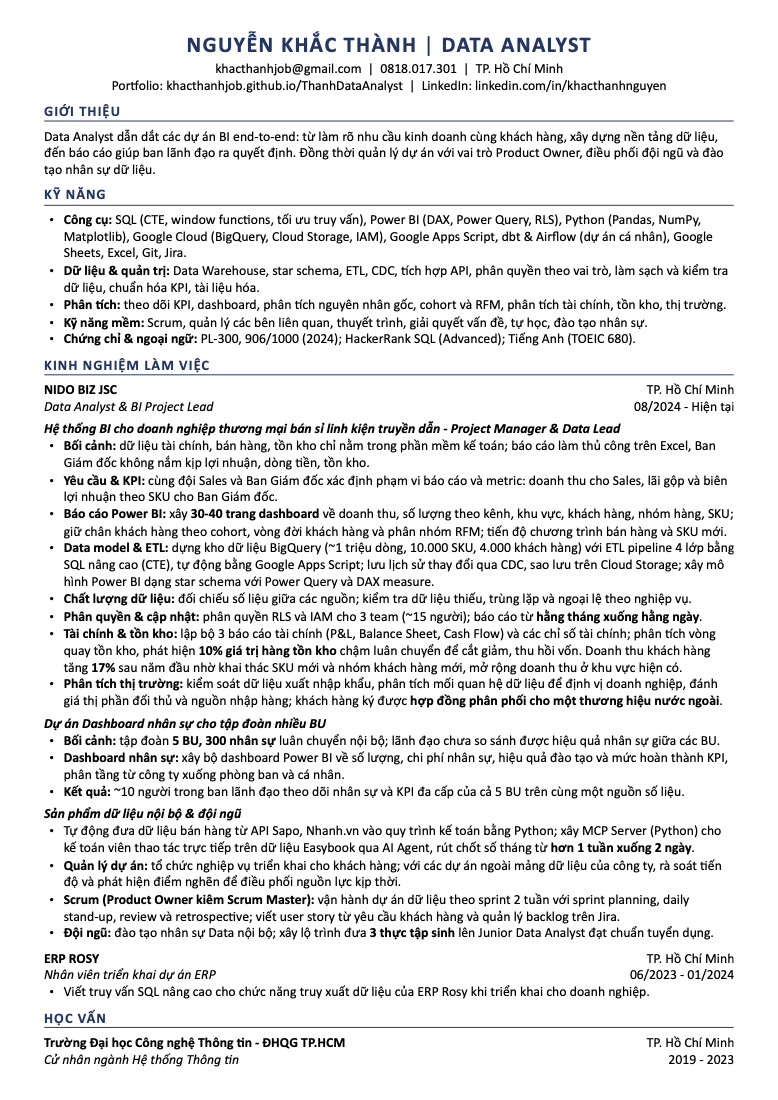
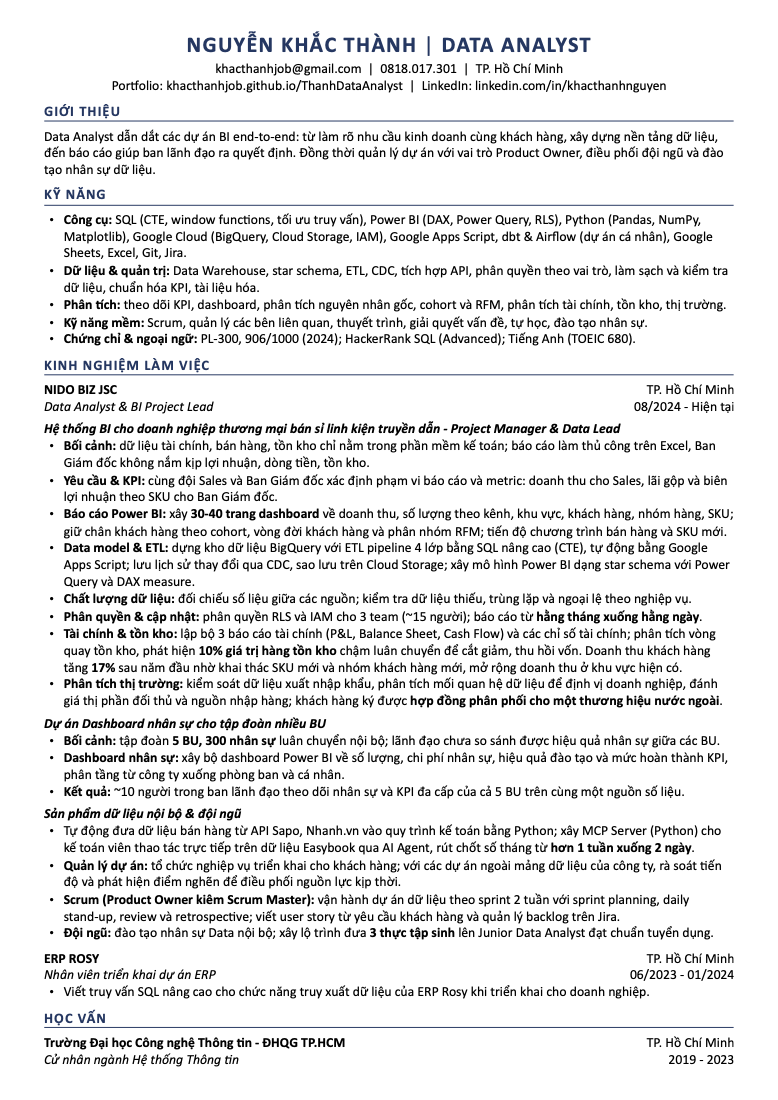
Remove BI warehouse data-scale figures from site and CVs
Drop the row/SKU/customer scale figures from the BI system project text,
replace both CV PDFs and the preview image, bump resume assets to ?v=9.

Changed region(s): [[0.0925, 0.4945, 0.9563, 0.5564]]

diff --git a/products.html b/products.html
@@ -1,1 +1,1 @@
-<!doctype html><html lang="vi"><head><meta charset="utf-8"><meta name="viewport" content="width=device-width,initial-scale=1"><meta name="description" content="Các sản phẩm và dự án tiêu biểu."><title>Sản phẩm — Khắc Thành</title><link rel="icon" href="favicon.ico?v=5" sizes="any"><link rel="icon" type="image/svg+xml" href="assets/favicon.svg?v=5"><link rel="icon" type="image/png" sizes="32x32" href="assets/favicon-32.png?v=5"><link rel="apple-touch-icon" href="assets/apple-touch-icon.png?v=5"><link rel="stylesheet" href="styles.css?v=32"></head><body data-page="products"><header class="site-header"><a class="brand" href="index.html" aria-label="Khắc Thành - Trang chủ">Khắc Thành<span class="brand-mark" aria-hidden="true">.</span></a><button class="menu-toggle" type="button" aria-label="Mở menu" aria-expanded="false" aria-controls="site-nav"><span class="menu-toggle-label">Menu</span><span class="menu-icon" aria-hidden="true"><i></i><i></i></span></button><nav class="nav" id="site-nav" aria-label="Điều hướng chính"><a href="index.html">Tổng quan</a><a class="active" href="products.html">Sản phẩm</a><a href="resume.html">Résumé</a><a href="contact.html">Liên hệ</a><div class="menu-details"><div class="menu-quick-links"><a href="mailto:khacthanhjob@gmail.com">Gửi email <span aria-hidden="true">●</span></a><a href="tel:+84818017301">Gọi điện <span aria-hidden="true">●</span></a></div><a class="menu-contact-tile" href="contact.html"><span>Liên hệ ↗</span><span class="menu-chain" aria-hidden="true"><i></i><i></i></span></a><div class="menu-meta"><span>Ho Chi Minh City</span><span>0818.017.301</span></div></div></nav></header><main class="container page-main"><section class="page-hero"><span class="kicker">01 / Sản phẩm</span><h1>Công việc<span class="accent">.</span><br><em>và kết quả.</em></h1><p>Một số dự án dữ liệu tôi đã triển khai tại Nido Biz JSC, từ yêu cầu nghiệp vụ đến hệ thống báo cáo vận hành hằng ngày.</p></section><section class="project-list"><article id="project-1" class="project-detail"><div class="project-visual visual-one"><span>01</span><strong>BI<br>SYSTEM.</strong><i>↗</i></div><div class="detail-copy"><div><span class="kicker">Khách hàng thương mại · Project Manager &amp; Data Lead</span><h2>Hệ thống BI cho khách hàng thương mại</h2><p>Dữ liệu tài chính, bán hàng và tồn kho của khách hàng chỉ nằm trong phần mềm kế toán, báo cáo làm thủ công trên Excel. Tôi dựng kho dữ liệu BigQuery (~1 triệu dòng, 10.000 SKU, 4.000 khách hàng) với ETL pipeline 4 lớp viết bằng SQL, sao lưu trên Cloud Storage, mô hình Power BI dạng star schema và 30–40 trang dashboard về doanh thu, lãi gộp, tồn kho, báo cáo tài chính; phân quyền RLS và IAM cho 3 team (~15 người), báo cáo từ hằng tháng xuống hằng ngày. Phân tích vòng quay tồn kho phát hiện 10% giá trị hàng tồn kho chậm luân chuyển để cắt giảm, thu hồi vốn; doanh thu khách hàng tăng 17% sau năm đầu nhờ khai thác SKU mới và nhóm khách hàng mới. Phân tích dữ liệu xuất nhập khẩu giúp khách hàng xác định nguồn nhập hàng và ký được hợp đồng phân phối cho một thương hiệu nước ngoài.</p></div><ul class="tags"><li>Power BI</li><li>BigQuery</li><li>Google Cloud</li><li>SQL</li><li>ETL</li></ul></div></article><article id="project-2" class="project-detail"><div class="project-visual visual-two"><span>02</span><strong>HR<br>DASHBOARD.</strong><i>↗</i></div><div class="detail-copy"><div><span class="kicker">Tập đoàn 5 BU · 300 nhân sự</span><h2>Dashboard nhân sự cho tập đoàn nhiều BU</h2><p>Tập đoàn 5 BU với 300 nhân sự luân chuyển giữa các công ty, ban lãnh đạo chưa có cách so sánh hiệu quả nhân sự. Tôi xây bộ dashboard Power BI về số lượng, chi phí nhân sự, hiệu quả đào tạo và mức hoàn thành KPI, phân tầng từ công ty xuống phòng ban và cá nhân, để ~10 người trong ban lãnh đạo theo dõi cả 5 BU trên cùng một nguồn số liệu.</p></div><ul class="tags"><li>Power BI</li><li>DAX</li><li>KPI</li></ul></div></article><article id="project-3" class="project-detail"><div class="project-visual visual-three"><span>03</span><strong>MCP<br>SERVER.</strong><i>↗</i></div><div class="detail-copy"><div><span class="kicker">Sản phẩm nội bộ · Nido Biz JSC</span><h2>Dữ liệu kế toán qua AI Agent</h2><p>Tự động đưa dữ liệu bán hàng từ API Sapo, Nhanh.vn vào quy trình dịch vụ kế toán bằng Python. Xây MCP Server bằng Python cho phần mềm kế toán Easybook, để kế toán viên truy vấn và thao tác trực tiếp trên dữ liệu kế toán qua AI Agent, rút thời gian chốt số tháng từ hơn 1 tuần xuống 2 ngày làm việc.</p></div><ul class="tags"><li>Python</li><li>API</li><li>MCP</li><li>AI Agent</li></ul></div></article></section><section class="next-section"><span class="kicker">Tiếp theo</span><a href="resume.html">Xem hành trình sự nghiệp <span>↗</span></a></section></main><footer class="footer container"><span>© 2026 KHẮC THÀNH</span><span>Được thiết kế để luôn rõ ràng.</span><a href="contact.html">Liên hệ ↗</a></footer><script src="script.js?v=31"></script></body></html>
+<!doctype html><html lang="vi"><head><meta charset="utf-8"><meta name="viewport" content="width=device-width,initial-scale=1"><meta name="description" content="Các sản phẩm và dự án tiêu biểu."><title>Sản phẩm — Khắc Thành</title><link rel="icon" href="favicon.ico?v=5" sizes="any"><link rel="icon" type="image/svg+xml" href="assets/favicon.svg?v=5"><link rel="icon" type="image/png" sizes="32x32" href="assets/favicon-32.png?v=5"><link rel="apple-touch-icon" href="assets/apple-touch-icon.png?v=5"><link rel="stylesheet" href="styles.css?v=32"></head><body data-page="products"><header class="site-header"><a class="brand" href="index.html" aria-label="Khắc Thành - Trang chủ">Khắc Thành<span class="brand-mark" aria-hidden="true">.</span></a><button class="menu-toggle" type="button" aria-label="Mở menu" aria-expanded="false" aria-controls="site-nav"><span class="menu-toggle-label">Menu</span><span class="menu-icon" aria-hidden="true"><i></i><i></i></span></button><nav class="nav" id="site-nav" aria-label="Điều hướng chính"><a href="index.html">Tổng quan</a><a class="active" href="products.html">Sản phẩm</a><a href="resume.html">Résumé</a><a href="contact.html">Liên hệ</a><div class="menu-details"><div class="menu-quick-links"><a href="mailto:khacthanhjob@gmail.com">Gửi email <span aria-hidden="true">●</span></a><a href="tel:+84818017301">Gọi điện <span aria-hidden="true">●</span></a></div><a class="menu-contact-tile" href="contact.html"><span>Liên hệ ↗</span><span class="menu-chain" aria-hidden="true"><i></i><i></i></span></a><div class="menu-meta"><span>Ho Chi Minh City</span><span>0818.017.301</span></div></div></nav></header><main class="container page-main"><section class="page-hero"><span class="kicker">01 / Sản phẩm</span><h1>Công việc<span class="accent">.</span><br><em>và kết quả.</em></h1><p>Một số dự án dữ liệu tôi đã triển khai tại Nido Biz JSC, từ yêu cầu nghiệp vụ đến hệ thống báo cáo vận hành hằng ngày.</p></section><section class="project-list"><article id="project-1" class="project-detail"><div class="project-visual visual-one"><span>01</span><strong>BI<br>SYSTEM.</strong><i>↗</i></div><div class="detail-copy"><div><span class="kicker">Khách hàng thương mại · Project Manager &amp; Data Lead</span><h2>Hệ thống BI cho khách hàng thương mại</h2><p>Dữ liệu tài chính, bán hàng và tồn kho của khách hàng chỉ nằm trong phần mềm kế toán, báo cáo làm thủ công trên Excel. Tôi dựng kho dữ liệu BigQuery với ETL pipeline 4 lớp viết bằng SQL, sao lưu trên Cloud Storage, mô hình Power BI dạng star schema và 30–40 trang dashboard về doanh thu, lãi gộp, tồn kho, báo cáo tài chính; phân quyền RLS và IAM cho 3 team (~15 người), báo cáo từ hằng tháng xuống hằng ngày. Phân tích vòng quay tồn kho phát hiện 10% giá trị hàng tồn kho chậm luân chuyển để cắt giảm, thu hồi vốn; doanh thu khách hàng tăng 17% sau năm đầu nhờ khai thác SKU mới và nhóm khách hàng mới. Phân tích dữ liệu xuất nhập khẩu giúp khách hàng xác định nguồn nhập hàng và ký được hợp đồng phân phối cho một thương hiệu nước ngoài.</p></div><ul class="tags"><li>Power BI</li><li>BigQuery</li><li>Google Cloud</li><li>SQL</li><li>ETL</li></ul></div></article><article id="project-2" class="project-detail"><div class="project-visual visual-two"><span>02</span><strong>HR<br>DASHBOARD.</strong><i>↗</i></div><div class="detail-copy"><div><span class="kicker">Tập đoàn 5 BU · 300 nhân sự</span><h2>Dashboard nhân sự cho tập đoàn nhiều BU</h2><p>Tập đoàn 5 BU với 300 nhân sự luân chuyển giữa các công ty, ban lãnh đạo chưa có cách so sánh hiệu quả nhân sự. Tôi xây bộ dashboard Power BI về số lượng, chi phí nhân sự, hiệu quả đào tạo và mức hoàn thành KPI, phân tầng từ công ty xuống phòng ban và cá nhân, để ~10 người trong ban lãnh đạo theo dõi cả 5 BU trên cùng một nguồn số liệu.</p></div><ul class="tags"><li>Power BI</li><li>DAX</li><li>KPI</li></ul></div></article><article id="project-3" class="project-detail"><div class="project-visual visual-three"><span>03</span><strong>MCP<br>SERVER.</strong><i>↗</i></div><div class="detail-copy"><div><span class="kicker">Sản phẩm nội bộ · Nido Biz JSC</span><h2>Dữ liệu kế toán qua AI Agent</h2><p>Tự động đưa dữ liệu bán hàng từ API Sapo, Nhanh.vn vào quy trình dịch vụ kế toán bằng Python. Xây MCP Server bằng Python cho phần mềm kế toán Easybook, để kế toán viên truy vấn và thao tác trực tiếp trên dữ liệu kế toán qua AI Agent, rút thời gian chốt số tháng từ hơn 1 tuần xuống 2 ngày làm việc.</p></div><ul class="tags"><li>Python</li><li>API</li><li>MCP</li><li>AI Agent</li></ul></div></article></section><section class="next-section"><span class="kicker">Tiếp theo</span><a href="resume.html">Xem hành trình sự nghiệp <span>↗</span></a></section></main><footer class="footer container"><span>© 2026 KHẮC THÀNH</span><span>Được thiết kế để luôn rõ ràng.</span><a href="contact.html">Liên hệ ↗</a></footer><script src="script.js?v=31"></script></body></html>

diff --git a/resume.html b/resume.html
@@ -1,1 +1,1 @@
-<!doctype html><html lang="vi"><head><meta charset="utf-8"><meta name="viewport" content="width=device-width,initial-scale=1"><meta name="description" content="Résumé một trang: kinh nghiệm, kỹ năng và học vấn."><title>Résumé — Khắc Thành</title><link rel="icon" href="favicon.ico?v=5" sizes="any"><link rel="icon" type="image/svg+xml" href="assets/favicon.svg?v=5"><link rel="icon" type="image/png" sizes="32x32" href="assets/favicon-32.png?v=5"><link rel="apple-touch-icon" href="assets/apple-touch-icon.png?v=5"><link rel="stylesheet" href="styles.css?v=32"></head><body data-page="resume"><header class="site-header"><a class="brand" href="index.html" aria-label="Khắc Thành - Trang chủ">Khắc Thành<span class="brand-mark" aria-hidden="true">.</span></a><button class="menu-toggle" type="button" aria-label="Mở menu" aria-expanded="false" aria-controls="site-nav"><span class="menu-toggle-label">Menu</span><span class="menu-icon" aria-hidden="true"><i></i><i></i></span></button><nav class="nav" id="site-nav" aria-label="Điều hướng chính"><a href="index.html">Tổng quan</a><a href="products.html">Sản phẩm</a><a class="active" href="resume.html">Résumé</a><a href="contact.html">Liên hệ</a><div class="menu-details"><div class="menu-quick-links"><a href="mailto:khacthanhjob@gmail.com">Gửi email <span aria-hidden="true">●</span></a><a href="tel:+84818017301">Gọi điện <span aria-hidden="true">●</span></a></div><a class="menu-contact-tile" href="contact.html"><span>Liên hệ ↗</span><span class="menu-chain" aria-hidden="true"><i></i><i></i></span></a><div class="menu-meta"><span>Ho Chi Minh City</span><span>0818.017.301</span></div></div></nav></header><main class="container resume-pdf-page" id="resume-pdf-page" hidden><div class="resume-pdf-heading"><div><span class="kicker">02 / RÉSUMÉ PDF</span><h1>Résumé của<br>Khắc Thành.</h1><p>Data Analyst · BI — Nido Biz, ERP Rosy, ĐH Công nghệ Thông tin.</p></div><div class="resume-pdf-actions"><a class="pill-link" href="assets/resume/Khac-Thanh-Resume.pdf?v=8" download="CV_NguyenKhacThanh_VN.pdf">Tải PDF (VN) <span>↓</span></a><a class="pill-link" href="assets/resume/Khac-Thanh-Resume-EN.pdf?v=8" download="CV_NguyenKhacThanh_EN.pdf">English PDF <span>↓</span></a></div></div><a class="resume-preview-link" href="assets/resume/Khac-Thanh-Resume.pdf?v=8" aria-label="Mở CV PDF của Khắc Thành"><img class="resume-pdf-frame" src="assets/resume/Khac-Thanh-Resume-preview.png?v=8" alt="Bản xem trước CV một trang của Nguyễn Khắc Thành: Data Analyst tại Nido Biz, dự án hệ thống BI và dashboard nhân sự, kỹ năng Power BI, Google Cloud, SQL, Python."></a></main><main class="container resume-page" id="resume-html-page"><div class="resume-top"><span class="kicker">02 / Một trang về tôi</span><button class="print-button" onclick="window.print()">In / Lưu PDF ↗</button></div><section class="resume-intro"><h1>KHẮC<br><em>THÀNH.</em></h1><div><p class="resume-role">Data Analyst · Power BI, SQL, BigQuery</p><p>Data Analyst dẫn dắt các dự án BI end-to-end: từ làm rõ nhu cầu kinh doanh cùng khách hàng, xây dựng nền tảng dữ liệu, đến báo cáo giúp ban lãnh đạo ra quyết định. Đồng thời quản lý dự án với vai trò Product Owner, điều phối đội ngũ và đào tạo nhân sự dữ liệu. Chứng chỉ Microsoft PL-300 (906/1000).</p><a href="mailto:khacthanhjob@gmail.com">khacthanhjob@gmail.com ↗</a><br><a href="tel:+84818017301">0818.017.301 ↗</a></div></section><div class="resume-grid"><section><h2>Hành trình</h2><div class="resume-item"><span>08/2024 — Hiện tại</span><div><h3>Data Analyst</h3><p>Nido Biz JSC</p><p>Project Manager &amp; Data Lead dự án hệ thống BI cho khách hàng thương mại: doanh thu khách hàng tăng 17% sau năm đầu, cắt giảm 10% giá trị tồn kho chậm luân chuyển để thu hồi vốn, báo cáo từ hằng tháng xuống hằng ngày. Product Owner kiêm Scrum Master các dự án dữ liệu (sprint 2 tuần); đưa 3 thực tập sinh lên Junior Data Analyst.</p></div></div><div class="resume-item"><span>06/2023 — 01/2024</span><div><h3>Nhân viên triển khai dự án ERP</h3><p>ERP Rosy</p><p>Viết truy vấn SQL nâng cao cho chức năng truy xuất dữ liệu của hệ thống ERP Rosy khi triển khai cho doanh nghiệp.</p></div></div></section><aside><section><h2>Chuyên môn</h2><ul class="plain-list"><li>Power BI: DAX, Power Query, RLS, star schema</li><li>SQL nâng cao, ETL, làm sạch dữ liệu</li><li>Google Cloud: BigQuery, Cloud Storage, IAM</li><li>Python: API, MCP Server</li><li>dbt, Airflow (dự án cá nhân)</li><li>Scrum, quản lý các bên liên quan</li></ul></section><section><h2>Chứng chỉ</h2><ul class="plain-list"><li>Microsoft PL-300 (906/1000)</li><li>HackerRank SQL (Advanced)</li><li>TOEIC 680</li></ul></section><section><h2>Học vấn</h2><p>ĐH Công nghệ Thông tin – ĐHQG TP.HCM<br>Hệ thống Thông tin<br>2019 — 2023</p></section><section><h2>Địa điểm</h2><p>Ho Chi Minh City</p></section></aside></div></main><footer class="footer container"><span>© 2026 KHẮC THÀNH</span><span>Résumé một trang.</span><a href="contact.html">Liên hệ ↗</a></footer><script src="script.js?v=31"></script></body></html>
+<!doctype html><html lang="vi"><head><meta charset="utf-8"><meta name="viewport" content="width=device-width,initial-scale=1"><meta name="description" content="Résumé một trang: kinh nghiệm, kỹ năng và học vấn."><title>Résumé — Khắc Thành</title><link rel="icon" href="favicon.ico?v=5" sizes="any"><link rel="icon" type="image/svg+xml" href="assets/favicon.svg?v=5"><link rel="icon" type="image/png" sizes="32x32" href="assets/favicon-32.png?v=5"><link rel="apple-touch-icon" href="assets/apple-touch-icon.png?v=5"><link rel="stylesheet" href="styles.css?v=32"></head><body data-page="resume"><header class="site-header"><a class="brand" href="index.html" aria-label="Khắc Thành - Trang chủ">Khắc Thành<span class="brand-mark" aria-hidden="true">.</span></a><button class="menu-toggle" type="button" aria-label="Mở menu" aria-expanded="false" aria-controls="site-nav"><span class="menu-toggle-label">Menu</span><span class="menu-icon" aria-hidden="true"><i></i><i></i></span></button><nav class="nav" id="site-nav" aria-label="Điều hướng chính"><a href="index.html">Tổng quan</a><a href="products.html">Sản phẩm</a><a class="active" href="resume.html">Résumé</a><a href="contact.html">Liên hệ</a><div class="menu-details"><div class="menu-quick-links"><a href="mailto:khacthanhjob@gmail.com">Gửi email <span aria-hidden="true">●</span></a><a href="tel:+84818017301">Gọi điện <span aria-hidden="true">●</span></a></div><a class="menu-contact-tile" href="contact.html"><span>Liên hệ ↗</span><span class="menu-chain" aria-hidden="true"><i></i><i></i></span></a><div class="menu-meta"><span>Ho Chi Minh City</span><span>0818.017.301</span></div></div></nav></header><main class="container resume-pdf-page" id="resume-pdf-page" hidden><div class="resume-pdf-heading"><div><span class="kicker">02 / RÉSUMÉ PDF</span><h1>Résumé của<br>Khắc Thành.</h1><p>Data Analyst · BI — Nido Biz, ERP Rosy, ĐH Công nghệ Thông tin.</p></div><div class="resume-pdf-actions"><a class="pill-link" href="assets/resume/Khac-Thanh-Resume.pdf?v=9" download="CV_NguyenKhacThanh_VN.pdf">Tải PDF (VN) <span>↓</span></a><a class="pill-link" href="assets/resume/Khac-Thanh-Resume-EN.pdf?v=9" download="CV_NguyenKhacThanh_EN.pdf">English PDF <span>↓</span></a></div></div><a class="resume-preview-link" href="assets/resume/Khac-Thanh-Resume.pdf?v=9" aria-label="Mở CV PDF của Khắc Thành"><img class="resume-pdf-frame" src="assets/resume/Khac-Thanh-Resume-preview.png?v=9" alt="Bản xem trước CV một trang của Nguyễn Khắc Thành: Data Analyst tại Nido Biz, dự án hệ thống BI và dashboard nhân sự, kỹ năng Power BI, Google Cloud, SQL, Python."></a></main><main class="container resume-page" id="resume-html-page"><div class="resume-top"><span class="kicker">02 / Một trang về tôi</span><button class="print-button" onclick="window.print()">In / Lưu PDF ↗</button></div><section class="resume-intro"><h1>KHẮC<br><em>THÀNH.</em></h1><div><p class="resume-role">Data Analyst · Power BI, SQL, BigQuery</p><p>Data Analyst dẫn dắt các dự án BI end-to-end: từ làm rõ nhu cầu kinh doanh cùng khách hàng, xây dựng nền tảng dữ liệu, đến báo cáo giúp ban lãnh đạo ra quyết định. Đồng thời quản lý dự án với vai trò Product Owner, điều phối đội ngũ và đào tạo nhân sự dữ liệu. Chứng chỉ Microsoft PL-300 (906/1000).</p><a href="mailto:khacthanhjob@gmail.com">khacthanhjob@gmail.com ↗</a><br><a href="tel:+84818017301">0818.017.301 ↗</a></div></section><div class="resume-grid"><section><h2>Hành trình</h2><div class="resume-item"><span>08/2024 — Hiện tại</span><div><h3>Data Analyst</h3><p>Nido Biz JSC</p><p>Project Manager &amp; Data Lead dự án hệ thống BI cho khách hàng thương mại: doanh thu khách hàng tăng 17% sau năm đầu, cắt giảm 10% giá trị tồn kho chậm luân chuyển để thu hồi vốn, báo cáo từ hằng tháng xuống hằng ngày. Product Owner kiêm Scrum Master các dự án dữ liệu (sprint 2 tuần); đưa 3 thực tập sinh lên Junior Data Analyst.</p></div></div><div class="resume-item"><span>06/2023 — 01/2024</span><div><h3>Nhân viên triển khai dự án ERP</h3><p>ERP Rosy</p><p>Viết truy vấn SQL nâng cao cho chức năng truy xuất dữ liệu của hệ thống ERP Rosy khi triển khai cho doanh nghiệp.</p></div></div></section><aside><section><h2>Chuyên môn</h2><ul class="plain-list"><li>Power BI: DAX, Power Query, RLS, star schema</li><li>SQL nâng cao, ETL, làm sạch dữ liệu</li><li>Google Cloud: BigQuery, Cloud Storage, IAM</li><li>Python: API, MCP Server</li><li>dbt, Airflow (dự án cá nhân)</li><li>Scrum, quản lý các bên liên quan</li></ul></section><section><h2>Chứng chỉ</h2><ul class="plain-list"><li>Microsoft PL-300 (906/1000)</li><li>HackerRank SQL (Advanced)</li><li>TOEIC 680</li></ul></section><section><h2>Học vấn</h2><p>ĐH Công nghệ Thông tin – ĐHQG TP.HCM<br>Hệ thống Thông tin<br>2019 — 2023</p></section><section><h2>Địa điểm</h2><p>Ho Chi Minh City</p></section></aside></div></main><footer class="footer container"><span>© 2026 KHẮC THÀNH</span><span>Résumé một trang.</span><a href="contact.html">Liên hệ ↗</a></footer><script src="script.js?v=31"></script></body></html>
